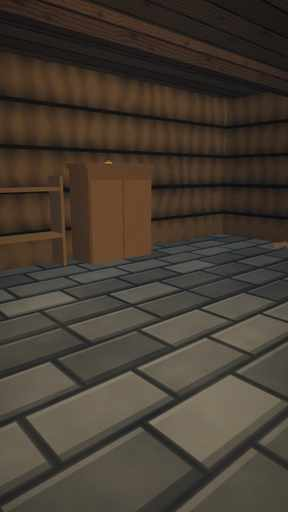
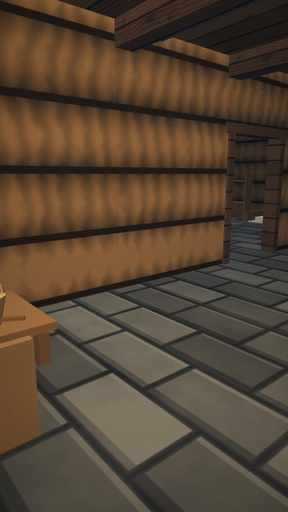
Inside a building only the town is drawn, so rooms are the cheapest place in the game; commission 7 summary and measurements
C7.7. indoorView hides the land behind a house's walls (526 -> 183 ms a frame inside on Medium here, 144 -> 65
draw calls). bench.py rooms measures a full room on each quality. Journal summary with numbers before and after,
three best, what next, and the CHANGELOG row for the merge. The browser test's border walk starts nearer the
edge and its step may take twenty minutes.

Claude-Session: https://claude.ai/code/session_014wgBnpjEV7bSfXQX5kDcws

diff --git a/dist/index.html b/dist/index.html
@@ -21232,6 +21232,7 @@ vGlow = bone > 7.5 ? 1.0 : 0.0;`
     if (R.isLevel(V.S)) {
       dispose(staticGroup);
       staticGroup = new THREE.Group();
+      shut = false;
       scene.add(staticGroup);
       V.townAt = V.townId = null;
       V.towns = [];
@@ -21246,7 +21247,14 @@ vGlow = bone > 7.5 ? 1.0 : 0.0;`
     while (!(r = g.next()).done) ;
     install(r.value);
   }
+  var shut = false;
+  function indoorView(on3) {
+    if (!staticGroup || on3 === shut) return;
+    shut = on3;
+    for (const o of staticGroup.children) o.visible = !on3 || o.userData.townGroup === V.townId;
+  }
   function install(res) {
+    shut = false;
     dispose(staticGroup);
     staticGroup = res.group;
     scene.add(staticGroup);
@@ -21568,6 +21576,7 @@ vGlow = bone > 7.5 ? 1.0 : 0.0;`
         if (!S3.areas[id] || !R.mapOf(S3, id) || !tw) continue;
         const g2 = interiorGroup(R.mapOf(S3, id), S3.areas[id], TOWN_TS, id);
         g2.position.set(tw.x, tw.y, tw.z);
+        g2.userData.townGroup = id;
         group2.add(g2);
         continue;
       }
@@ -22747,6 +22756,7 @@ vGlow = bone > 7.5 ? 1.0 : 0.0;`
     finishFrame();
   }
   function finishFrame() {
+    indoorView(R.areaRec(V.S).kind === "house");
     treesNear();
     animateActors(frameDt, P3.x, P3.z, still);
     guard("sound", () => updateSound(frameDt));

diff --git a/src/view/scene.js b/src/view/scene.js
@@ -860,6 +860,7 @@ function buildStaticInner() {
   if (R.isLevel(V.S)) {
     dispose(staticGroup);
     staticGroup = new THREE.Group();
+    shut = false;
     scene.add(staticGroup);
     V.townAt = V.townId = null;
     V.towns = [];
@@ -874,8 +875,17 @@ function buildStaticInner() {
   while (!(r = g.next()).done);
   install(r.value);
 }
+/* Inside a building (C7), only the town is drawn of the land: through the door you see the street and the houses
+   across it, and nothing of the land behind the walls costs anything. */
+let shut = false;
+function indoorView(on) {
+  if (!staticGroup || on === shut) return;
+  shut = on;
+  for (const o of staticGroup.children) o.visible = !on || o.userData.townGroup === V.townId;
+}
 // Put a finished land on screen in place of the old one.
 function install(res) {
+  shut = false;
   dispose(staticGroup);
   staticGroup = res.group;
   scene.add(staticGroup);
@@ -1313,6 +1323,7 @@ function* buildLand(S, timed) {
       if (!S.areas[id] || !R.mapOf(S, id) || !tw) continue;
       const g = interiorGroup(R.mapOf(S, id), S.areas[id], TOWN_TS, id);
       g.position.set(tw.x, tw.y, tw.z);
+      g.userData.townGroup = id;
       group.add(g);
       continue;
     }
@@ -1657,6 +1668,7 @@ function resize() {
 }
 
 export {
+  indoorView,
   renderer,
   scene,
   camera,

diff --git a/tools/check.js b/tools/check.js
@@ -20,7 +20,7 @@ let failed = 0;
 for (const [name, cmd, args] of steps) {
   const t0 = Date.now();
   try {
-    const out = execFileSync(cmd, args, { cwd: ROOT, encoding: 'utf8', stdio: ['ignore', 'pipe', 'pipe'], timeout: 600000 });
+    const out = execFileSync(cmd, args, { cwd: ROOT, encoding: 'utf8', stdio: ['ignore', 'pipe', 'pipe'], timeout: name === 'browser' ? 1200000 : 600000 }); // the browser test is slow on a software renderer
     const lines = out.trim().split('\n');
     console.log('PASS ' + name.padEnd(9) + ((Date.now() - t0) / 1000).toFixed(1).padStart(5) + 's  ' + (name === 'playtest' ? lines.slice(0, 2).join(' | ') : lines.slice(-2).join(' | ')));
   } catch (e) {

diff --git a/src/view/run.js b/src/view/run.js
@@ -1,6 +1,7 @@
 /* Run control: saving, starting, acting, and the per-frame loop. */
 import { $, CODEX, EYE, FR, G, KEY, OLD_KEYS, P, R, TOWN_TS, TS, V, VIEW, clamp, lerp, smooth, tileX, toTile } from './ctx.js';
 import {
+  indoorView,
   applyFrame,
   buildDynamic,
   buildStatic,
@@ -363,6 +364,7 @@ function frame() {
   finishFrame();
 }
 function finishFrame() {
+  indoorView(R.areaRec(V.S).kind === 'house');
   treesNear();
   animateActors(frameDt, P.x, P.z, still);
   guard('sound', () => updateSound(frameDt));

diff --git a/tools/look.py b/tools/look.py
@@ -61,6 +61,9 @@ DOOR = """const bs = Rules.buildingsOf(S, S.area); const b = bs.find((x) => x.ki
   const qx = (b.door.x + 0.5) * ts - h, qz = (b.door.y + 0.5) * ts - h;
   S.player.x = b.door.ox; S.player.y = b.door.oy; g.refresh();
   g.P.x = qx + dx * 7 + dy * 2.5; g.P.z = qz + dy * 7 + dx * 2.5; g.P.yaw = Math.atan2(-(qx - g.P.x), -(qz - g.P.z)); g.P.pitch = -0.05; await wait(800);"""
+OUTDOOR = """const L2 = Rules.houseOf(S, S.area), e = L2.exit, ts2 = 5 * 28 / 36 / 3, h2 = 18 * ts2, ex = e % 36, ey = Math.floor(e / 36);
+  const dx = ex - L2.entry.x, dy = ey - L2.entry.y; g.P.x = (L2.entry.x + 0.5 - dx * 3.2) * ts2 - h2; g.P.z = (L2.entry.y + 0.5 - dy * 3.2) * ts2 - h2;
+  g.P.yaw = Math.atan2(-dx, -dy); g.P.pitch = -0.02; await wait(600);"""
 SHOTS = [
     ('salt-day', 11, {}, region('Salt', DAY)),
     ('salt-night', 11, {}, region('Salt', NIGHT)),
@@ -88,6 +91,7 @@ SHOTS = [
     ('house-home', 11, {}, HOUSE % (2, DAY)),
     ('house-inn', 222, {}, HOUSE % (1, 'S.time = 21 * 60 - 360;')),
     ('house-door', 11, {}, town(0, DAY) + DOOR),
+    ('house-out', 11, {}, HOUSE % (2, DAY) + OUTDOOR),
     ('rare-sepia', 9, {}, region('Home', DAY)),
     ('rare-reds', 251, {}, region('Home', 'S.time = 17.8 * 60 - 360;')),
     ('storm', 222, {}, region('(1, 1)', DAY + 'S.weather.storm = Rules.stormOfNow ? true : true;')),

diff --git a/tests/smoke.py b/tests/smoke.py
@@ -165,7 +165,7 @@ async def main():
         await pg.evaluate("()=>{const g=window.__g,S=g.S;Rules.travelTo(S,'overworld',18,18);g.refresh();S.combat=null;S.creatures.length=0;S.player.stamina=100;S.player.water=Rules.waterCap(S);document.getElementById('modal').hidden=true;}")
         crossed = False
         for y in range(4, 32, 3):
-            ok = await pg.evaluate("y=>{const g=window.__g,S=g.S;if(S.area!=='overworld')return true;if(!Rules.passable(S,35,y))return false;S.player.x=35;S.player.y=y;g.refresh();g.P.x=35.5*28-504;g.P.z=(y+0.5)*28-504;g.P.yaw=-Math.PI/2;return true}", y)
+            ok = await pg.evaluate("y=>{const g=window.__g,S=g.S;if(S.area!=='overworld')return true;if(!Rules.passable(S,35,y))return false;S.player.x=35;S.player.y=y;g.refresh();g.P.x=35.5*28-504+9;g.P.z=(y+0.5)*28-504;g.P.yaw=-Math.PI/2;return true}", y)
             if not ok: continue
             await pg.keyboard.down('w')
             for _ in range(60):

diff --git a/JOURNAL.md b/JOURNAL.md
@@ -8,6 +8,100 @@ abandoned places. Pieces with switches, as before.
 **Measuring.** As commission 6: `python3 tools/bench.py fallback low medium high` and `python3 tools/look.py`, with
 `CHROME=/opt/pw-browsers/chromium` (the full `node tools/check.js` needs it too for the browser test in a cloud session).
 
+## Summary
+
+Seven entries, newest first below, in four commits (C7.4 to C7.6 went in together: they were built and checked as one,
+each with its own switch). Every check passes, the full one with the browser test, which now walks into a house through
+its door, takes something (and, seen, is made to put it back first), and walks out. No save migration: the new state
+(`s.taken`, areas of kind `house`, `s.stats.caught`) is optional, and old saves load as they were.
+
+| # | Piece | Switch | Verdict |
+| --- | --- | --- | --- |
+| C7.1 | Outlines only outside the figure (stencil), thin; caves fade into the air far off; bands and far outlines that do not crawl | `outlines` | a needed fix |
+| C7.2 | A harpsichord, Baroque dances and a tune of its own for every kind of place; pieces for a discovery, a win and a death | `sound` | pearl |
+| C7.3 | Ninety kinds of ordinary things in levels and round ruins and caves, made from the seed, to pick up, carry, eat, light or sell | `things` | groundwork, and a pleasure to poke about in |
+| C7.4 | Every town building is a place you walk into, with rooms that suit it, drawn where it stands | `interiors` | pearl |
+| C7.5 | Taking in someone's house is seen and undone; a window says who saw you | `theft` | small, replaceable |
+| C7.6 | Some old things are secretly valuable, until a merchant appraises them | `secrets` | small pearl |
+| C7.7 | Inside a building only the town of the land is drawn; measurements | (none) | pearl for the phone |
+
+**Numbers, before and after** (`python3 tools/bench.py fallback low medium high rooms`, software renderer at 412 x 915,
+seeds 11 / 222 / 3333; slow in absolute terms, comparable across rows, about 8% noise). Before is the end of
+commission 6.
+
+| | build ms | draw calls | triangles | frame ms | page |
+| --- | --- | --- | --- | --- | --- |
+| before, Fallback | 82 | 73 | 106,484 | 75.4 | 818 KB |
+| after, Fallback | 74 | 75 | 110,521 | 72.9 | 935 KB |
+| before, Low | 362 | 124 | 578,686 | 401.7 | |
+| after, Low | 389 | 124 | 583,226 | 403.9 | |
+| before, Medium | 381 | 146 | 590,024 | 405.6 | |
+| after, Medium | 362 | 145 | 595,389 | 401.0 | |
+| before, High | 389 | 154 | 762,489 | 513.3 | |
+| after, High | 435 | 153 | 767,854 | 525.0 | |
+
+Outdoors nothing changed but a few thousand triangles of old things round the ruins. **A full room** (seed 11's
+elder's hall, 54 things, and a house of four rooms, 86 things):
+
+| | the room's draw calls | the room's triangles | the whole frame inside: calls, triangles, ms |
+| --- | --- | --- | --- |
+| Fallback | 7 | 4,502 / 9,312 | 67 / 58 calls; 135k / 145k; 112 / 119 ms (before C7.7) |
+| Low | 7 | 4,502 / 9,312 | 120 / 95 calls; 698k / 705k; 555 / 538 ms (before C7.7) |
+| Medium | 8 to 9 | 6,766 / 14,232 | 144 / 104 calls; 709k / 722k; 526 / 552 ms (before C7.7) |
+| Medium, after C7.7 | 9 | 7,114 / 14,796 | **65 / 68 calls; 29k / 47k; 183 / 199 ms** |
+| High | 8 | 6,766 / 14,232 | 148 / 106 calls; 976k / 978k; 735 / 733 ms (before C7.7) |
+
+A room is cheap (walls, floor, ceiling, woodwork, window glow, furniture, small things, two outlines); what cost was the
+land behind its walls, which C7.7 stops drawing indoors: inside a building is now the cheapest place in the game.
+
+**Saves and memory** (Node, a world's every place visited by god mode, three worlds): a new world's save is the same
+(77 / 57 / 56 KB); after every place, 157 → 159, 108 → 109 and 124 → 126 KB (the god-mode jumps into a house each leave
+an area a few hundred bytes, which C7.4's `forgetHouses` now removes); thirty things taken add 0.3 to 0.9 KB (about 30
+bytes each). Making every thing of a whole world at once (3,500 to 5,000 things in every level and round every ruin,
+and 41 to 57 buildings' rooms) costs some 2 to 8 MB of memory more than before; in play only the places near you are
+made, and the caches keep at most 64 places' things and 32 houses.
+
+The bot: 30 / 150 (20%), 19 / 150 (13%) and 22 / 150 (15%) over three seed sets, every piece on (floor: 8%).
+
+**My three best.**
+1. **The town's buildings opened (C7.4)**: no loading, no jump, the same trick as the town's gate. The room is made
+   from the seed, drawn where the building stands within its walls, and forgotten when you leave; the house's trade,
+   wealth, climate and year decide its rooms and things, so a hamlet's cottage and a city merchant's house really are
+   different places, and none of it is stored.
+2. **Tunes with identity (C7.2)**: a theme per place, varied each time round, so the city's minuet is the city's, and
+   the Baroque's own devices (sequence, walking bass, a lament over a chromatic bass) make it sound composed, for a few
+   oscillators.
+3. **Outlines in the stencil (C7.1)**: one line of state per material fixed the masks on faces for good, for nothing.
+
+**What I would do next.**
+1. People inside: the smith at the forge, the innkeeper at the counter, a family at the table (the actors exist; they
+   need a place to stand and a reason).
+2. A real crime system in place of C7.5: unseen at night or with the household asleep, a fine or a night in the cells,
+   a bad name in the town that raises its prices.
+3. Rooms in the steppe's tents and the hamlets on the land; upper floors and cellars.
+4. More things for the strange places (the moon's, other worlds'), and the lost people's wares drawn in their own
+   style (their marks and shapes), not only their colour.
+5. On the Pixel: walk into a few houses with the meter on; if the room's things cost, `FOLD` in view/things.js is the
+   lever.
+
+**CHANGELOG row for the merge into `main`** (ready to paste, with the version that merge gets):
+
+| v0.18 | Commission 7: rooms full of things. Every building in a town is a place you walk into through its open door, with rooms that suit it (a house's living room, bedroom, kitchen and workroom; the inn's taproom; the elder's hall; the temple's chapel; the smithy), furnished by the town's trade, size, climate and the year. Ninety kinds of ordinary things in rooms, levels, ruins and caves, made from the seed and never stored, to pick up and carry, eat, light or sell; taking in someone's house is seen; some old things are secretly valuable until appraised. Music: a harpsichord, Baroque dances and a tune of its own for every kind of place, and pieces for a discovery, a win and a death. Fixes: thin outlines only round the outside of people (no masks on faces), caves that fade into the distance, less shimmer far off. See `JOURNAL.md` |
+
+## C7.7: indoors, only the town; measurements
+
+**What it is.** Inside a building the land behind its walls was still drawn: 700,000 triangles to look at a wall. Now,
+while the traveller is in a house, only the town of the whole land is drawn (`indoorView` in scene.js, each frame, a
+flag on the land's parts); through the open door you see the street and the houses across it, and haze beyond. The frame
+inside a house went from 526 to 183 ms on Medium on this renderer, 144 to 65 draw calls. Also: `tools/bench.py rooms`
+measures a full room on each quality; `tools/nofog.py` lists dark things that skip the fog; `tools/look.py` has the new
+pictures (`person-*`, `things-*`, `house-*`).
+
+**About the browser test.** It now takes eight minutes here, so `tools/check.js` gives that step twenty (it was cut off
+at ten once); and its walk over a border starts 5 m from the edge instead of 14, since on this software renderer the
+walk manages about a metre a second (frames are capped at 0.05 s of walking each), so 15 seconds was borderline. It
+failed that way twice in this commission, both times with no error but the timeout; neither is a fault in the game.
+
 ## C7.6: secret value
 
 **What it is.** A few old things are not what they seem. In ruins, caves, dungeons and empty houses, about one old

diff --git a/ARCHITECTURE.md b/ARCHITECTURE.md
@@ -152,7 +152,8 @@ Every place you walk into is an area; commission 4 added four kinds of level and
   all from the seed; nothing stored, and the area is deleted on leaving unless something was put down in it). The view
   shifts the frame's origin to the house's grid (`applyFrame`, `houseOrigin`), as it does at the town's gate, and
   draws the room within the building's walls, which have a doorway (`open` in buildings.js). `doorAt` tells the view a
-  door is walkable. Rooms near the player are drawn too, to be seen through their doors.
+  door is walkable. Rooms near the player are drawn too, to be seen through their doors. Indoors only the town of
+  the land is drawn (`indoorView` in scene.js).
 - **Theft** (`rules/theft.js`): one check in `TAKE_CHECKS` and the `'caught'` event (a window in ui.js). Replaceable.
 - **Secret value** (`rules/secrets.js`): rolled in `THING_FINISH`, revealed by appraisal through `ITEM_NAMES` /
   `ITEM_VALUES`.

diff --git a/docs/look/README.md b/docs/look/README.md
@@ -19,7 +19,7 @@ makes a contact sheet of a set.
 | `storm` | a storm: every palette greys |
 | `person-close`, `person-near` | a townsperson up close and from a few steps (C7.1: no lines on the face, thin outlines) |
 | `things-level`, `things-ruin` | things (C7.3): a chest and what stands on it in a dungeon, old things by a ruin |
-| `house-hall`, `house-home`, `house-inn`, `house-door` | inside buildings (C7.4): an elder's hall, a house, an inn at night, and a house's open door seen from the street |
+| `house-hall`, `house-home`, `house-inn`, `house-door`, `house-out` | inside buildings (C7.4): an elder's hall, a house, an inn at night, a house's open door seen from the street, and the street seen through it |
 | `rare-sepia`, `rare-reds` | worlds that rolled a rare look: sepia, and all reds (at dusk) |
 | `dungeon` | a dungeon level (levels keep their own look) |
 | `sky` | a castle in the sky |
